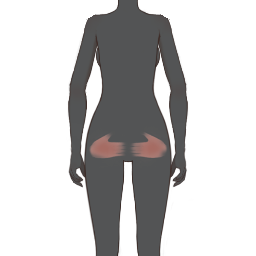
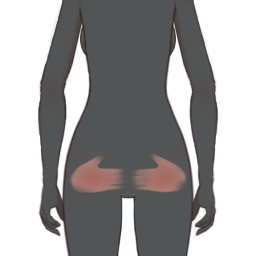
[CHANGE] Update spank and whip marks preview

diff --git a/src/assets/body/spank_marks/spank_marks.asset.ts b/src/assets/body/spank_marks/spank_marks.asset.ts
@@ -17,7 +17,7 @@ DefineBodypart({
 			minAlpha: 0.1,
 		},
 	},
-	// size:600, y:370, centered
+	// size:400, y:440, centered
 	preview: 'preview.png',
 	attributes: {
 		provides: [

diff --git a/src/assets/body/whip_marks/whip_marks.asset.ts b/src/assets/body/whip_marks/whip_marks.asset.ts
@@ -12,7 +12,7 @@ DefineBodypart({
 			minAlpha: 0.1,
 		},
 	},
-	// size:600, y:370, centered
+	// size:400, y:440, centered
 	preview: 'preview.png',
 	attributes: {
 		provides: [
